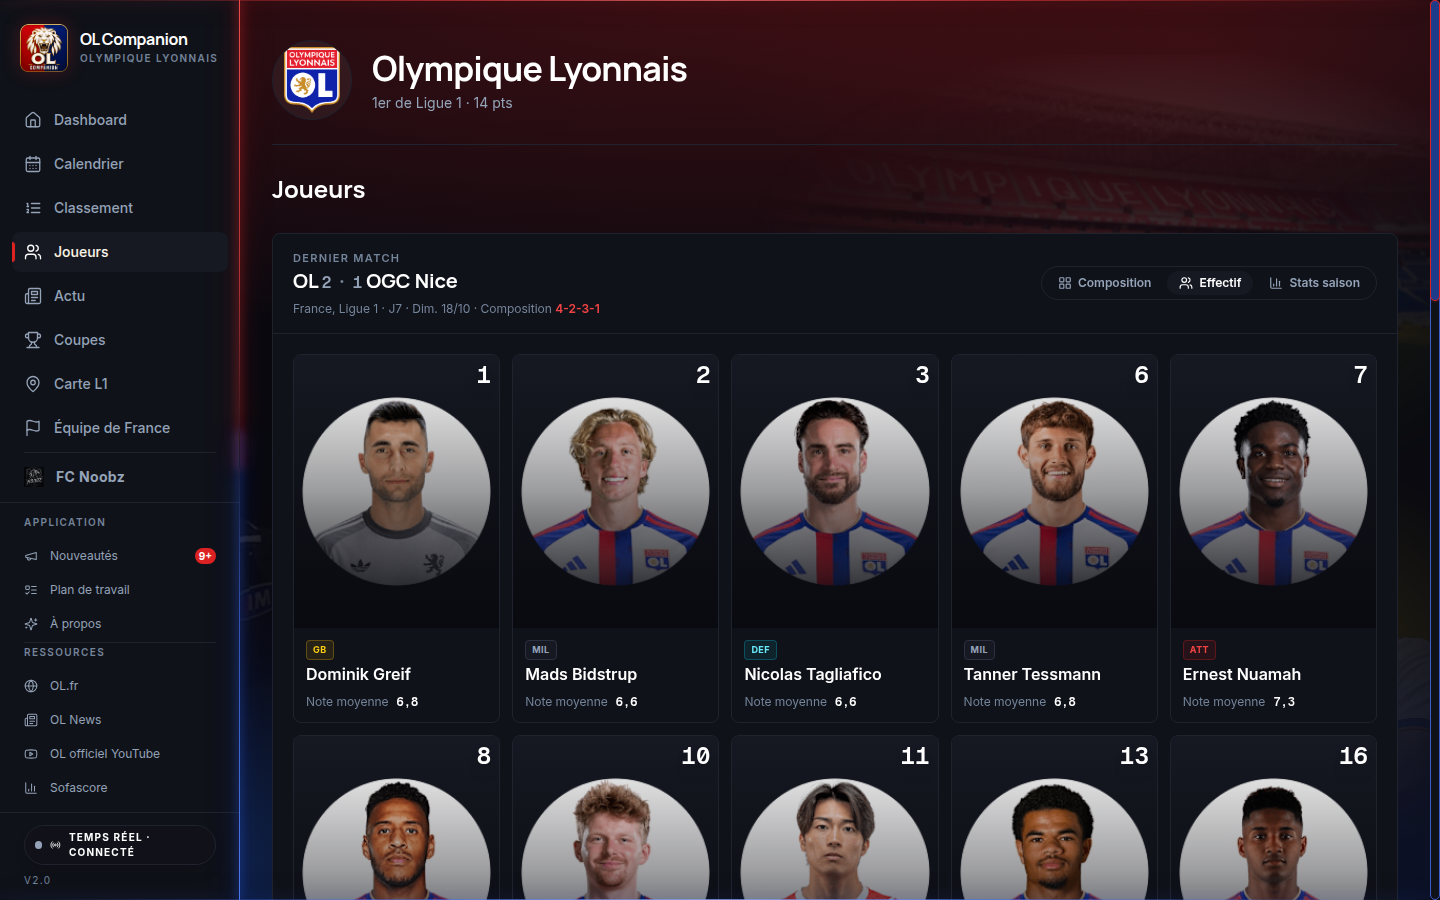
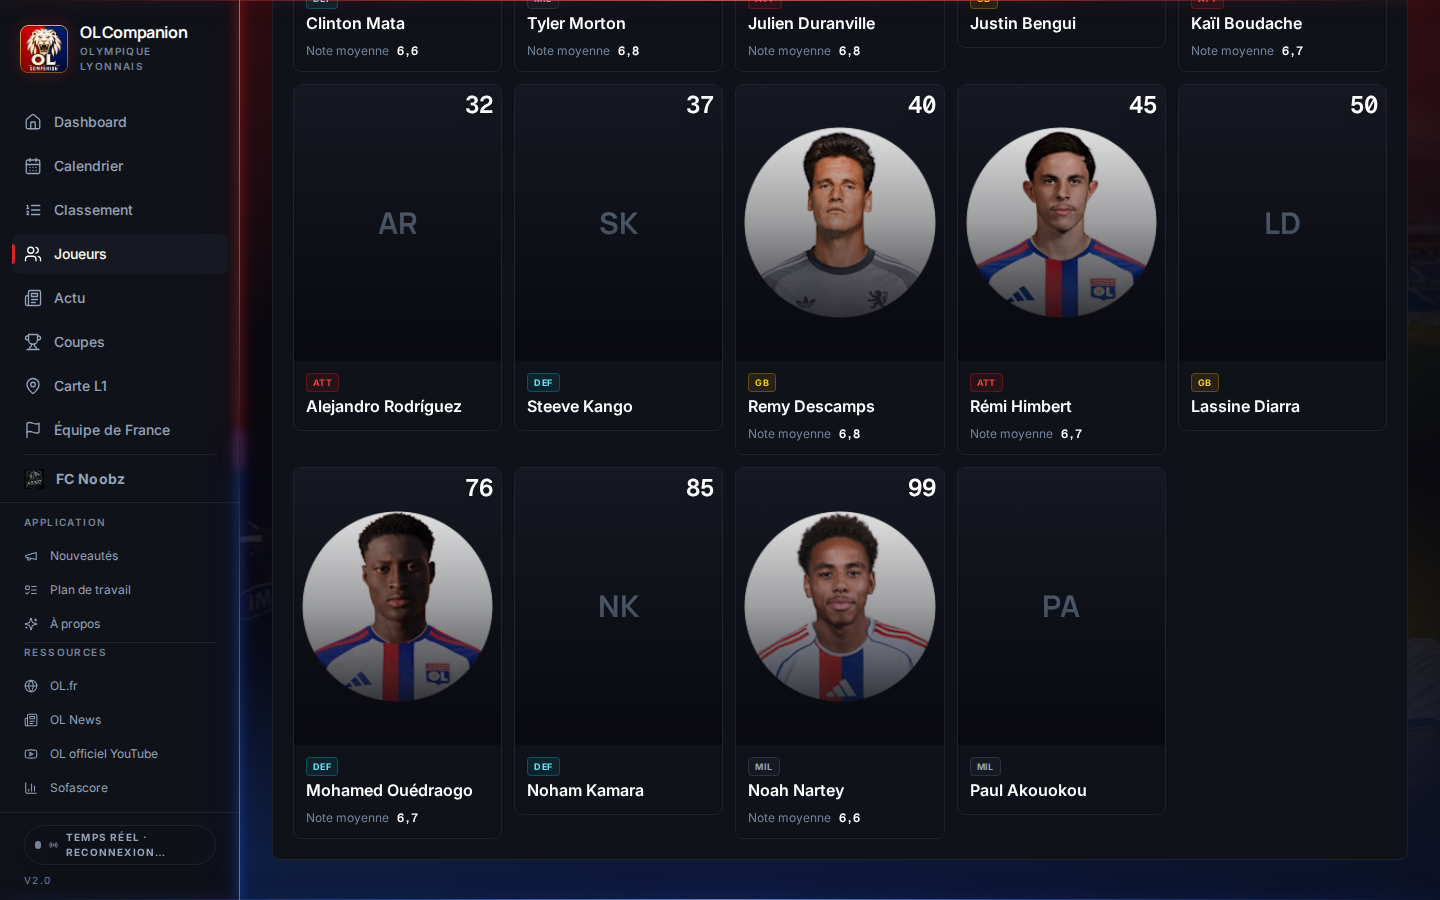
docs(L215): captures des Nouveautés L214 et L215 refaites sur les données réelles (fin de liste, n° 99 après les numérotés), texte et alt de L215 sans la photo d'un convoqué qu'aucune donnée ne montre

diff --git a/docs/nouveautes/2026-10-22-joueurs-finitions-de-l-effectif-complet.md b/docs/nouveautes/2026-10-22-joueurs-finitions-de-l-effectif-complet.md
@@ -4,7 +4,7 @@ date: 2026-10-22
 created: 2026-10-22T12:04+02:00
 lots: [L215]
 captures:
-  - { file: captures/L215-effectif-1440px.png, alt: "Onglet Effectif des Joueurs : cartes triées par numéro, avec la photo de chaque joueur" }
-  - { file: captures/L215-effectif-390px.png, alt: "Le même onglet à 390 px" }
+  - { file: captures/L215-effectif-1440px.png, alt: "Fin de l'onglet Effectif des Joueurs à 1440 px : dernière rangée de cartes, les n° 76, 85 et 99 (Noah Nartey, avec sa photo) puis Paul Akouokou, sans numéro, qui n'a que ses initiales PA ; au-dessus, les cartes des n° 32 à 50" }
+  - { file: captures/L215-effectif-390px.png, alt: "Le même onglet à 390 px, en fin de liste : les cartes du n° 85 (Noham Kamara, initiales NK) et du n° 99 (Noah Nartey, avec sa photo), puis celle de Paul Akouokou, sans numéro, avec ses initiales PA" }
 ---
-Dans l'onglet Effectif des Joueurs, un joueur qui n'a pas encore joué mais qui figure sur la feuille du dernier match garde désormais sa photo, au lieu de simples initiales. Les joueurs sans numéro connu restent rangés après tous les joueurs numérotés, le n° 99 compris.
+Dans l'onglet Effectif des Joueurs, les joueurs sans numéro connu restent rangés après tous les joueurs numérotés, le n° 99 compris : les captures montrent la fin de la liste, avec le n° 99 (Noah Nartey) puis Paul Akouokou, sans numéro. Un joueur de l'effectif qui n'a pas encore joué mais qui figure sur la feuille du dernier match garde aussi sa photo, au lieu de simples initiales ; aucun joueur n'est dans ce cas sur la feuille du match du 18 octobre, les captures ne montrent donc pas cette photo.

diff --git a/docs/nouveautes/2026-10-22-joueurs-l-effectif-complet-avec-chaque-fiche.md b/docs/nouveautes/2026-10-22-joueurs-l-effectif-complet-avec-chaque-fiche.md
@@ -4,7 +4,7 @@ date: 2026-10-22
 created: 2026-10-22T10:58+02:00
 lots: [L214]
 captures:
-  - { file: captures/L214-effectif-complet-1440px.png, alt: "Onglet Effectif des Joueurs : cartes de tout l'effectif triées par numéro, avec ou sans note moyenne" }
+  - { file: captures/L214-effectif-complet-1440px.png, alt: "Fin de l'onglet Effectif des Joueurs à 1440 px : les cartes triées par numéro, du 22 au 26, du 32 au 50, puis le 76, le 85 et le 99 (Noah Nartey), suivies de Paul Akouokou, sans numéro, avec ses initiales PA ; la note moyenne n'est affichée que pour les joueurs qui ont joué, et plusieurs cartes n'ont que des initiales à la place de la photo" }
   - { file: captures/L214-effectif-complet-390px.png, alt: "Le même onglet à 390 px" }
 # nocapture: raison, quand une capture n'a pas de sens
 ---
